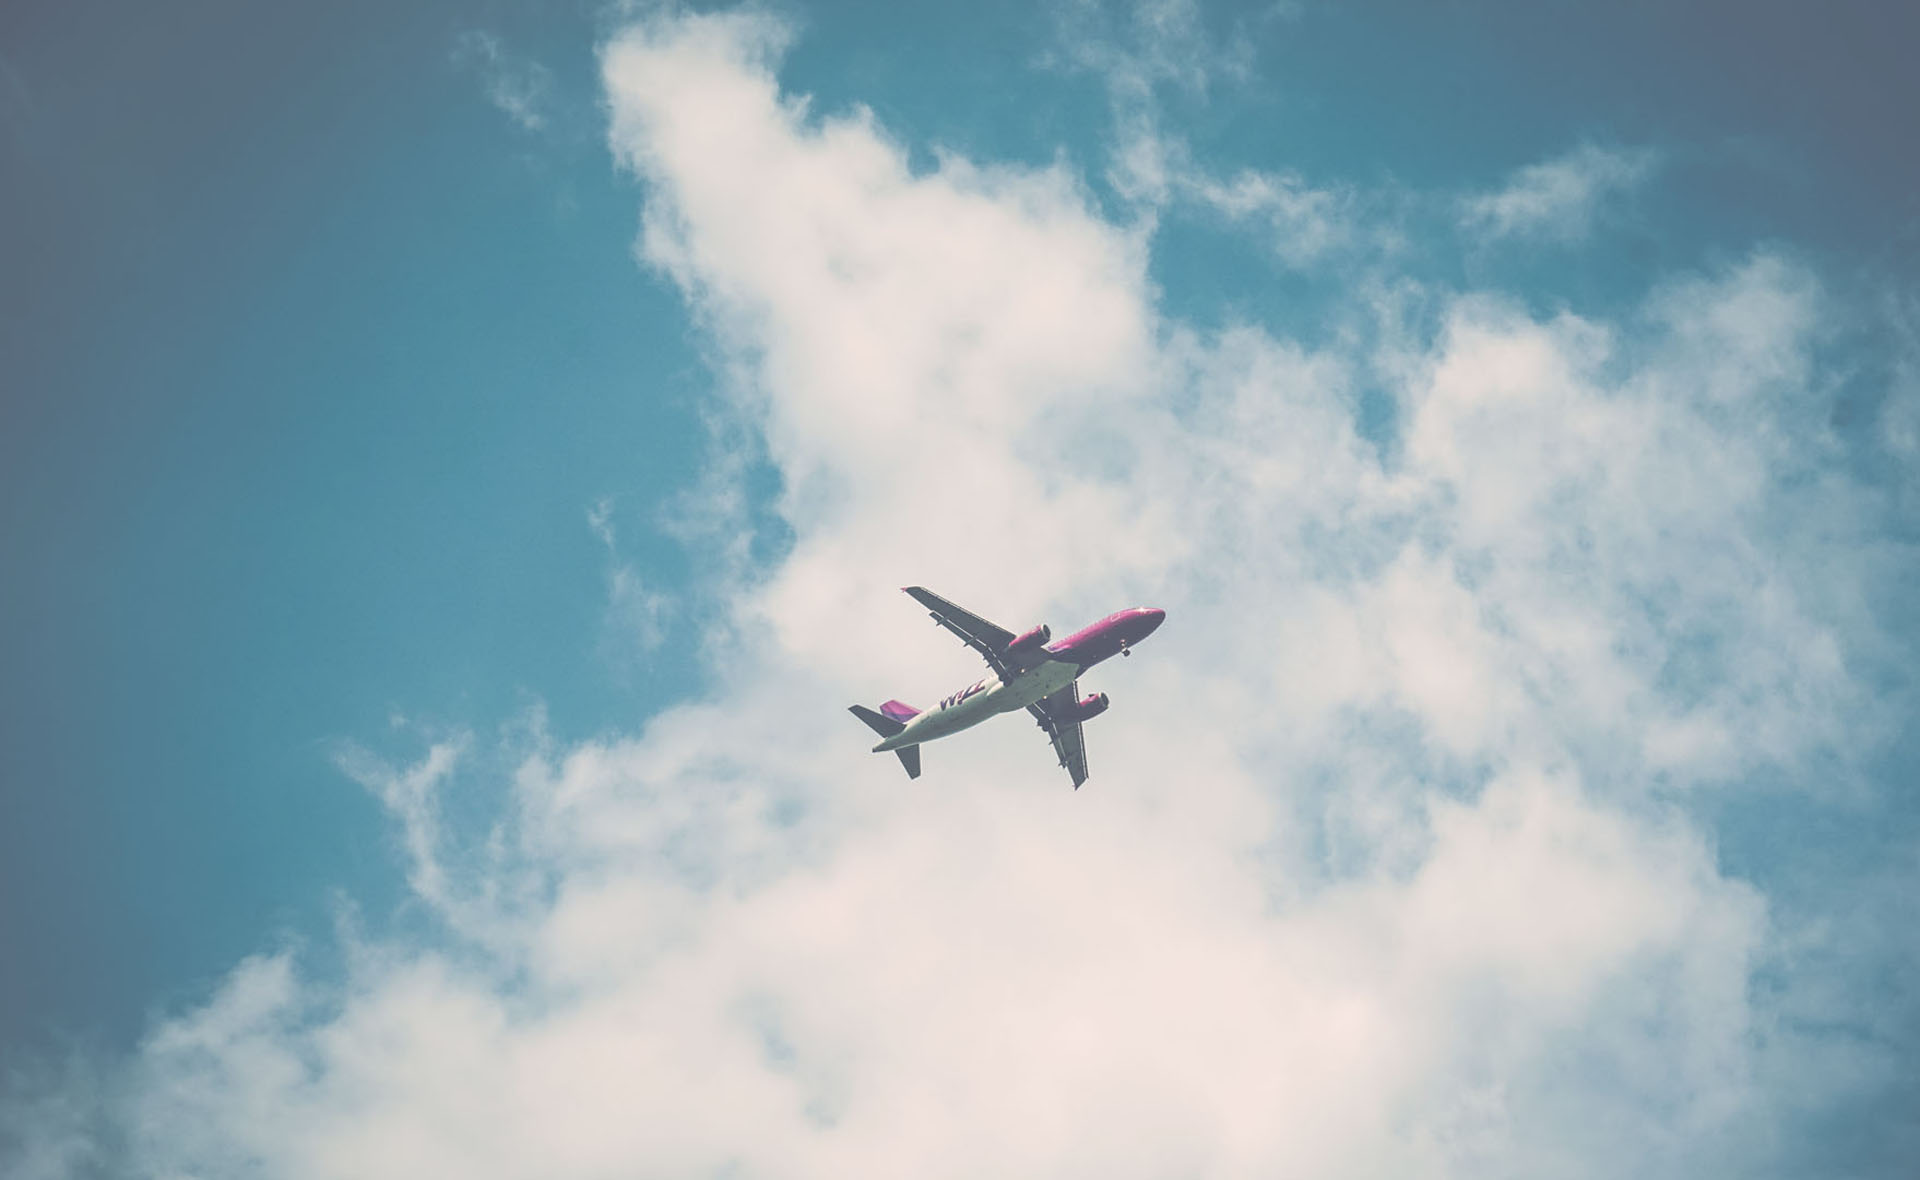
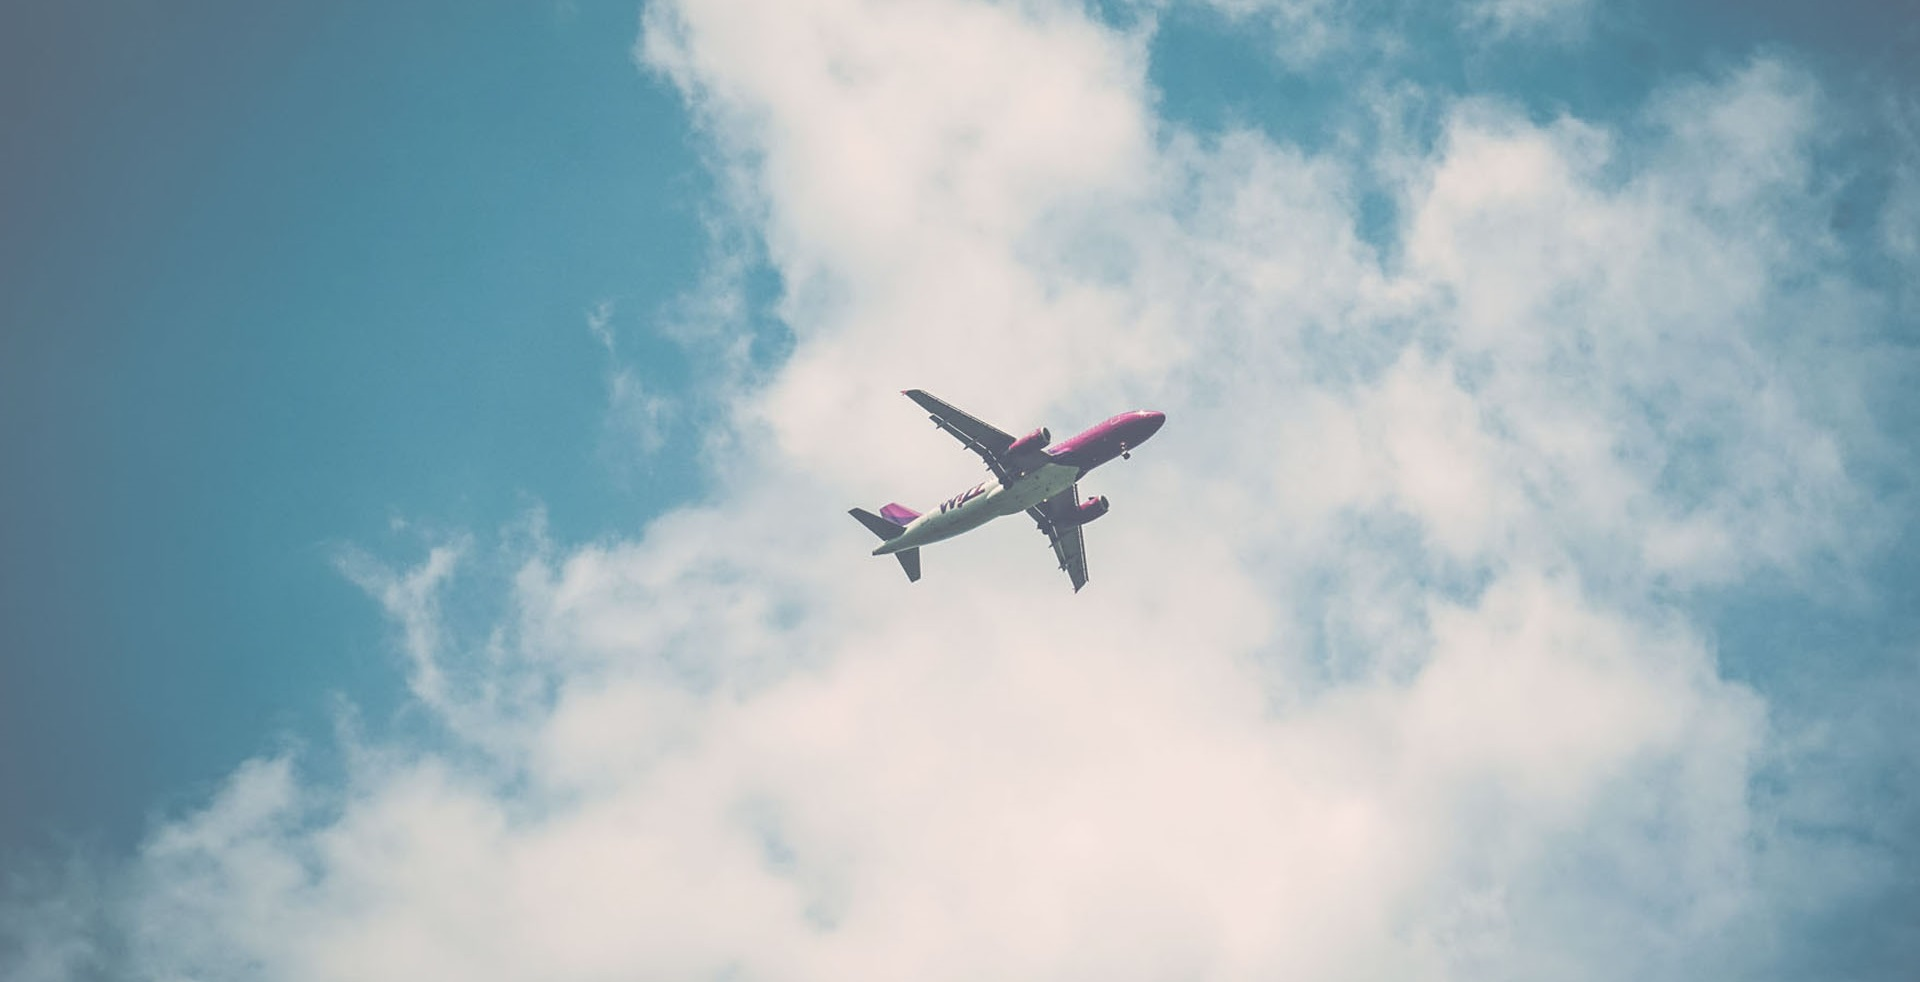
Homepage update

diff --git a/stylesheets/stylesheet.css b/stylesheets/stylesheet.css
@@ -57,7 +57,7 @@ a {
   text-align: center;
   font-family: header-font-main, sans-serif;
   height: 100vh;
-  background: url('../images/header-large.jpg') no-repeat center center fixed; 
+  background: url('../images/header-large.jpg') no-repeat center center fixed;
   -webkit-background-size: cover;
   -moz-background-size: cover;
   -o-background-size: cover;
@@ -66,7 +66,8 @@ a {
 
 @media screen and (min-width: 64em) {
   .page-header {
-    padding: 10rem 6rem;} }
+    /*padding: 10rem 6rem;*/
+    } }
 
 @media screen and (min-width: 42em) and (max-width: 64em) {
   .page-header {
@@ -80,6 +81,12 @@ a {
 	font-weight: normal;
 	color: #585858;
 }
+
+@media screen and (min-width: 64em) {
+  .header {
+    padding-bottom: 50px;
+    bottom: 0;
+  }
 
 .header-text {
 	font-family: header-font-main, sans-serif;
@@ -96,10 +103,8 @@ a {
 	width: 300px;
 }
 
-.subtext{
-	margin-right: 50px;
-}
-	
+
+
 .project-name {
   margin-top: 0;
   margin-bottom: 0.1rem;
@@ -107,7 +112,10 @@ a {
 
 @media screen and (min-width: 64em) {
   .project-name {
-    font-size: 10.25rem; } }
+    font-size: 10.25rem;}
+
+  .subtext{
+	margin-right: 50px;} }
 
 @media screen and (min-width: 42em) and (max-width: 64em) {
   .project-name {
@@ -273,7 +281,7 @@ a {
 @media screen and (max-width: 42em) {
   .site-footer {
     font-size: 0.9rem; } }
-	
+
 @font-face { font-family: titleFont; src: url('khand.ttf'); }
 @font-face { font-family: header-font-main; src: url('NovitoNova-Regular.otf'); }
 @font-face { font-family: header-font-thin; src: url('NovitoNova-Thin.otf'); }

diff --git a/index.html b/index.html
@@ -15,16 +15,16 @@
 			  <h1 class="project-name">twiyo</h1>
 			  <h2 class="project-name">FIND YOUR DREAM JOB ABROAD</h2>
 			  <div class="header">
-				<div class="header-text">FIND YOUR DREAM JOB ABROAD</div>
 				<img class="logo-main" src='images/logo.png'/>
+				<div class="header-text">FIND YOUR DREAM JOB ABROAD</div>
 				<div class="header-subtext">
 					<span class="subtext">MORE INFO COMING SOON</span>
 					<a href="mailto:laura@twiyo.com">CONTACT US</a>
 				</div>
-				
+
 			  </div>
-			  
+
 		</div>
-    </section>  
+    </section>
   </body>
 </html>
